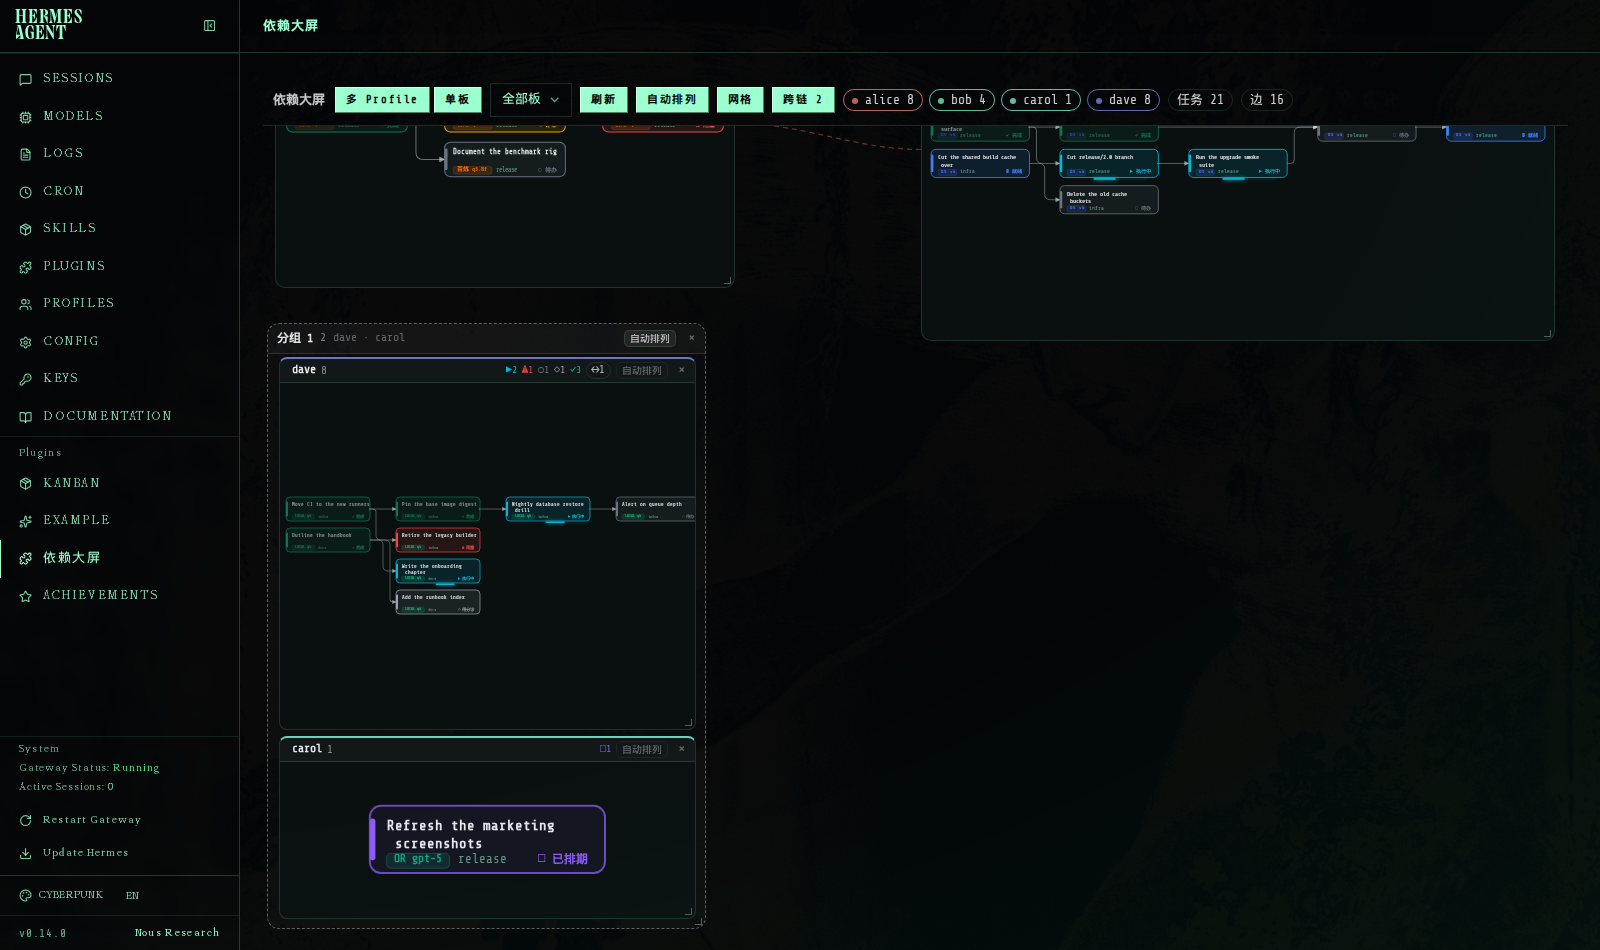
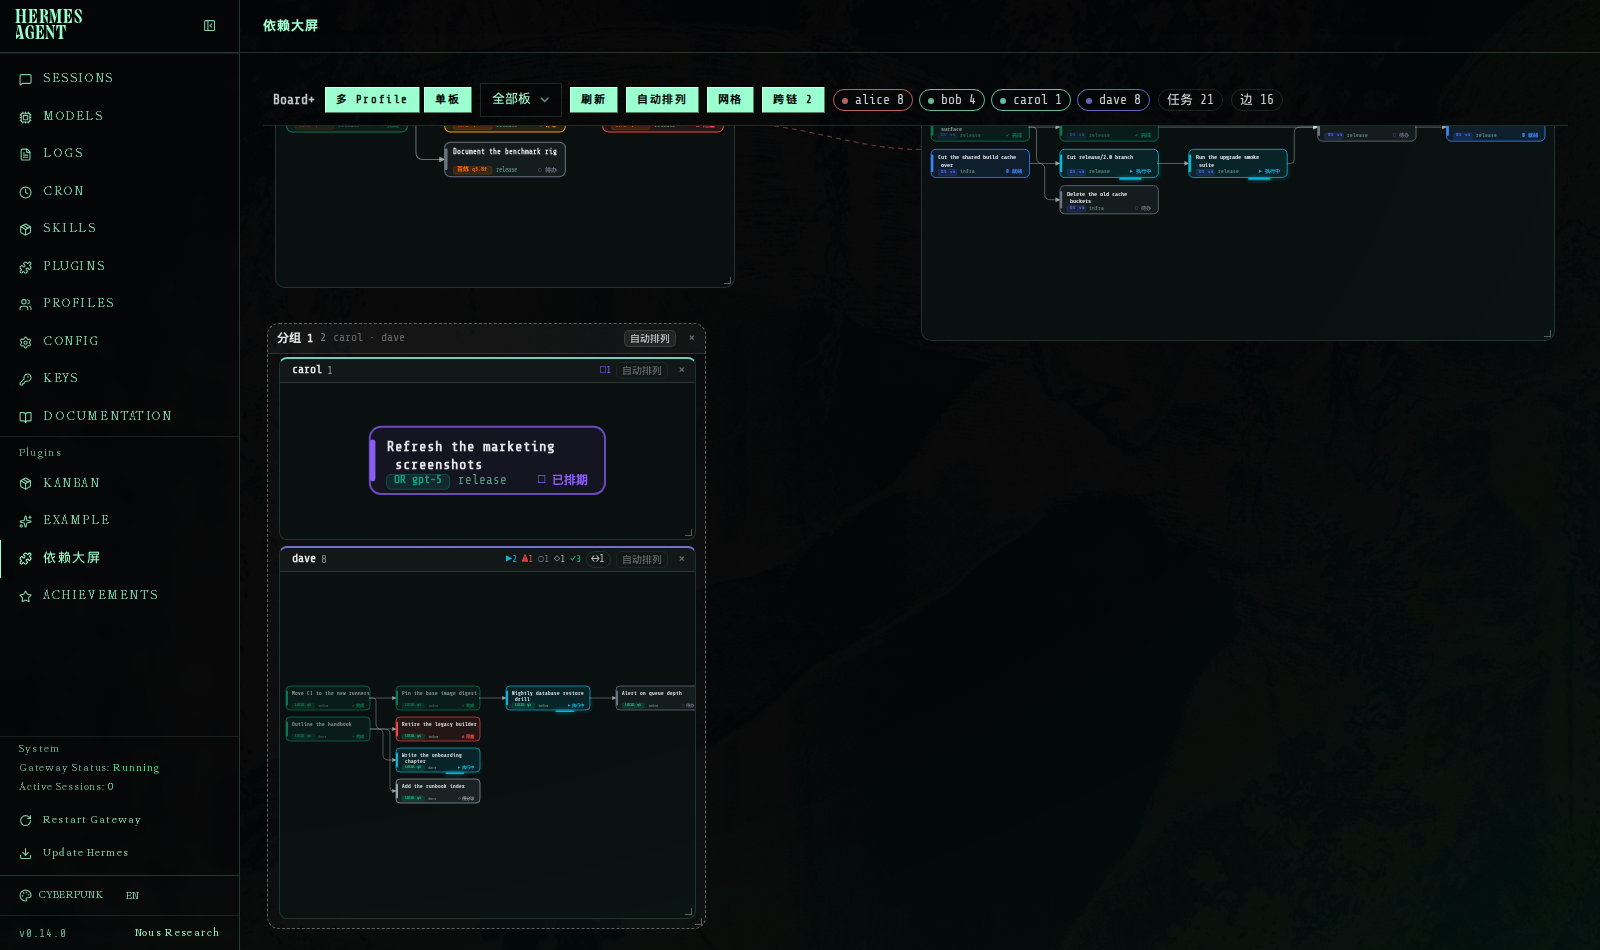
Board+：显示名改掉依赖大屏；组内成员也按「有任务块的在前」排序
- 显示名 依赖大屏 -> Board+（manifest label + 两处 .kg-brand）
- 组内成员排序复用 orderCards()：有任务块的成员在前，权重按可见块数
  （用户报：有块的 profile 被排到了分组末尾）
- 断言：v7 组内 DOM 序、kg_multi_test.js 纯函数、多屏 wall 顺序/沉底/自动排列落位
- README 同步改名

diff --git a/dist/index.js b/dist/index.js
@@ -596,6 +596,23 @@
     return n;
   }
 
+  // shared card order: unassigned last, otherwise name with numeric suffixes
+  // comparing numerically (lab2 < lab10) and case-insensitive
+  function nameCmp(a, b) {
+    if ((a === "") !== (b === "")) return a === "" ? 1 : -1;
+    return String(a).localeCompare(String(b), "en", { numeric: true, sensitivity: "base" });
+  }
+
+  // the card order rule, for any set of profile groups: cards that still draw
+  // task blocks come first, then by name. Used for the wall AND inside a group.
+  function orderCards(list, hideSt) {
+    return list.slice().sort(function (a, b) {
+      var ab = blockCount(a, hideSt) > 0, bb = blockCount(b, hideSt) > 0;
+      if (ab !== bb) return ab ? -1 : 1;
+      return nameCmp(a.name, b.name);
+    });
+  }
+
   function groupByProfile(merged, hideSt) {
     var nodes = (merged && merged.nodes) || [];
     var byK = {}, order = [], owner = {}, i;
@@ -626,15 +643,9 @@
       g.cross = n;
       return g;
     });
-    groups.sort(function (a, b) {
-      // cards that still draw task blocks come first (auto-arrange tiles in this
-      // order, so the busy profiles land in the top-left slots); then by profile
-      // name — numeric suffixes compare numerically, unassigned last
-      var ab = blockCount(a, hideSt) > 0, bb = blockCount(b, hideSt) > 0;
-      if (ab !== bb) return ab ? -1 : 1;
-      if ((a.name === "") !== (b.name === "")) return a.name === "" ? 1 : -1;
-      return String(a.name).localeCompare(String(b.name), "en", { numeric: true, sensitivity: "base" });
-    });
+    // cards that still draw task blocks come first (auto-arrange tiles in this
+    // order, so the busy profiles land in the top-left slots); then by name
+    groups = orderCards(groups, hideSt);
     return { groups: groups, cross: cross };
   }
 
@@ -1325,7 +1336,7 @@
 
     var boardList = boards.length ? boards : [{ slug: board || "default", title: board || "default" }];
     var top = h("div", { className: "kg-top" },
-      h("span", { className: "kg-brand" }, "依赖大屏"),
+      h("span", { className: "kg-brand" }, "Board+"),
       modeSwitch(props),
       h(Select, { value: board || undefined, onValueChange: onSelectBoard },
         boardList.map(function (b) { return h(SelectOption, { key: b.slug, value: b.slug }, b.title || b.slug); })),
@@ -1668,10 +1679,14 @@
         var members = [];
         cfg.members.forEach(function (m) { if (byName[m] && !hidden[m]) members.push(byName[m]); });
         if (!members.length) return;
+        // the same order rule applies INSIDE a card: members that still draw
+        // blocks first, then by name — so the busy member takes the big first
+        // slot instead of landing last (user 2026-10-11)
+        members = orderCards(members, props.hideSt);
         out.push({ id: GKEY + gid, kind: "group", cfg: cfg, members: members });
       });
       return out;
-    }, [visible, gcfg, byName, hidden]);
+    }, [visible, gcfg, byName, hidden, props.hideSt]);
 
     // stored (manual) rects win; anything without one takes the first free slot
     var rects = useMemo(function () {
@@ -1728,10 +1743,10 @@
         out[it.cfg.id] = innerLayout(
           it.members.map(function (m) { return m.name; }),
           it.cfg.inner, body, INNER_PAD,
-          it.members.map(function (m) { return profWeight(m.nodes ? m.nodes.length : 0); }));
+          it.members.map(function (m) { return profWeight(blockCount(m, props.hideSt)); }));
       });
       return out;
-    }, [items, shown]);
+    }, [items, shown, props.hideSt]);
 
     var inv = useMemo(function () {
       if (!frozenInRef.current) return innerRects;
@@ -2194,7 +2209,7 @@
     }, [groups]);
 
     var top = h("div", { className: "kg-top" },
-      h("span", { className: "kg-brand" }, "依赖大屏"),
+      h("span", { className: "kg-brand" }, "Board+"),
       modeSwitch(props),
       h(Select, { value: scopeValue, onValueChange: function (v) { props.setScope(v === "__all__" ? "" : v); } }, scopeOptions),
       h(Button, { size: "sm", variant: "outline", onClick: props.onReload }, "刷新"),
@@ -2647,7 +2662,7 @@
     hasOverlap: hasOverlap, GKEY: GKEY,
     squarifyRects: squarifyRects, weightedSlots: weightedSlots, profWeight: profWeight,
     isDoubleTap: isDoubleTap, PROF_W_EMPTY: PROF_W_EMPTY, PROF_W_BUSY: PROF_W_BUSY,
-    blockCount: blockCount,
+    blockCount: blockCount, nameCmp: nameCmp, orderCards: orderCards,
     freeSpot: freeSpot,
     GMIN_W: GMIN_W, GMIN_H: GMIN_H, GHEAD: GHEAD, GBODY_PAD: GBODY_PAD, INNER_PAD: INNER_PAD,
     IMIN_W: IMIN_W, IMIN_H: IMIN_H, GRID: GRID, PGAP: PGAP,

diff --git a/README.md b/README.md
@@ -1,10 +1,10 @@
-# hermes-kanban-graph — 依赖大屏
+# hermes-kanban-graph — **Board+**（任务依赖大屏）
 
 A dashboard plugin for **Hermes Agent**: every Kanban task as a block, every
 `parent → child` dependency as a wire, one card per profile, all on a single
 draggable wall.
 
-Hermes 的仪表盘插件：把 Kanban 任务画成方块、把 `父 → 子` 依赖画成连线，每个 profile 一张卡片，
+插件名 `Board+`（左侧 tab 就叫这个名字）。Hermes 的仪表盘插件：把 Kanban 任务画成方块、把 `父 → 子` 依赖画成连线，每个 profile 一张卡片，
 全部铺在一面可拖动的大屏上。
 
 ![wall](screenshots/01-wall.png)
@@ -47,15 +47,14 @@ Requirements: Hermes Agent with the dashboard (`hermes dashboard`), and the
 `~/.hermes/profiles/<profile>/plugins/kanban-graph/dashboard/` (or
 `~/.hermes/plugins/kanban-graph/dashboard/` for the default profile).
 
-Then restart the dashboard so the Python API is loaded:
+Then restart the dashboard so the Python API + the manifest label are loaded:
 
 ```bash
 hermes dashboard --stop
 hermes dashboard --no-open --port 9119
 ```
 
-Open `http://127.0.0.1:9119/kanban-graph` (a **依赖大屏** tab appears next to
-Kanban). The JS/CSS are read from disk on every request, so front-end edits only
+Open `http://127.0.0.1:9119/kanban-graph` (a **Board+** tab appears next to Kanban). The JS/CSS are read from disk on every request, so front-end edits only
 need a browser reload — only `plugin_api.py` needs the restart.
 
 Manual install is the same three paths, no build step: the front-end is a plain
